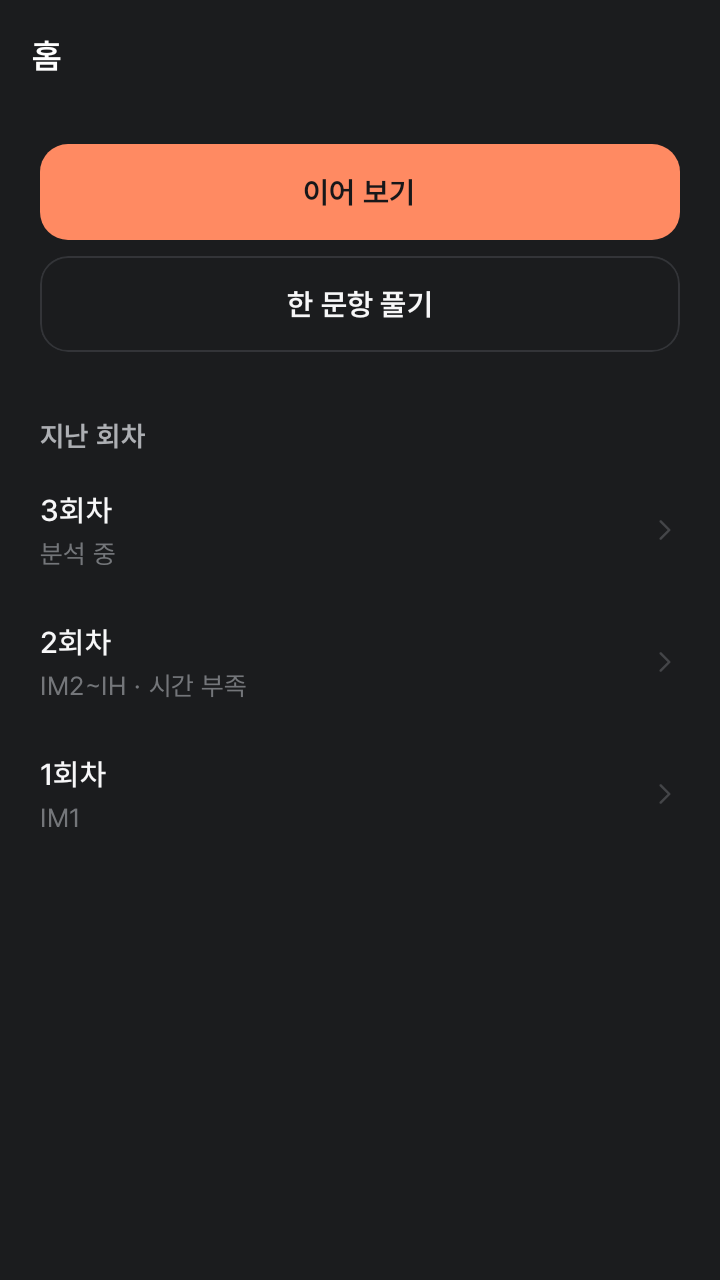
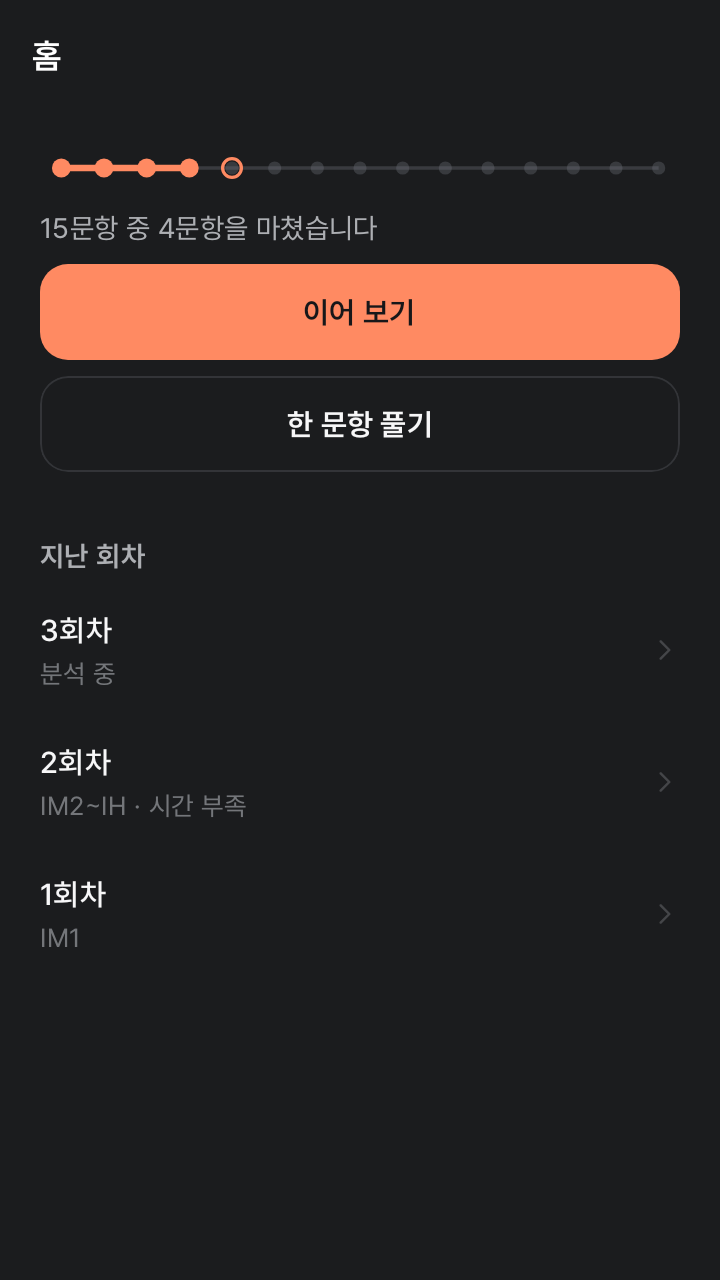
[motion-onb] 홈 이어 보기 위에 마친 문항 진행 점을 보인다 (#158)

diff --git a/ui/feature-home/src/commonTest/kotlin/io/github/nosorae/aiopic/ui/featurehome/HomeViewModelTest.kt b/ui/feature-home/src/commonTest/kotlin/io/github/nosorae/aiopic/ui/featurehome/HomeViewModelTest.kt
@@ -1,7 +1,10 @@
 package io.github.nosorae.aiopic.ui.featurehome
 
+import io.github.nosorae.aiopic.engine.question.model.QuestionType
 import io.github.nosorae.aiopic.engine.session.model.ExamSession
+import io.github.nosorae.aiopic.engine.session.model.ExamSpec
 import io.github.nosorae.aiopic.engine.session.model.ExamStatus
+import io.github.nosorae.aiopic.engine.session.model.ExamStep
 import io.github.nosorae.aiopic.engine.session.model.GradeCheck
 import io.github.nosorae.aiopic.engine.session.model.SessionGrade
 import kotlinx.coroutines.Dispatchers
@@ -19,24 +22,32 @@ import kotlin.test.assertEquals
 import kotlin.test.assertFalse
 import kotlin.test.assertNull
 import kotlin.test.assertTrue
+import kotlin.time.Duration.Companion.minutes
 
 class HomeViewModelTest {
     private val dispatcher = StandardTestDispatcher()
     private val sessions = MutableStateFlow<List<ExamSession>>(emptyList())
+
+    // 수준 1 이면 3문항, 수준 3 이상이면 4문항인 시험.
+    private val spec = ExamSpec(
+        timeLimit = 40.minutes,
+        levelCount = 6,
+        steps = listOf(ExamStep.LevelSelect) + List(3) { ExamStep.Ask(QuestionType("t")) } + ExamStep.Ask(QuestionType("t"), minLevel = 3),
+    )
 
     @BeforeTest fun setUp() = Dispatchers.setMain(dispatcher)
 
     @AfterTest fun tearDown() = Dispatchers.resetMain()
 
     private fun TestScope.loadedViewModel(): HomeViewModel {
-        val viewModel = HomeViewModel(ObserveHomeUseCase { sessions })
+        val viewModel = HomeViewModel(ObserveHomeUseCase({ sessions }, spec))
         advanceUntilIdle()
         return viewModel
     }
 
     @Test
     fun `저장소를 읽기 전에는 지난 회차가 정해지지 않은 로딩 상태다`() {
-        val viewModel = HomeViewModel(ObserveHomeUseCase { sessions })
+        val viewModel = HomeViewModel(ObserveHomeUseCase({ sessions }, spec))
 
         assertNull(viewModel.uiState.value.pastSessions)
     }
@@ -49,6 +60,15 @@ class HomeViewModelTest {
 
         assertEquals("b", viewModel.uiState.value.resumeSessionId)
         assertTrue(viewModel.uiState.value.canResume)
+    }
+
+    @Test
+    fun `F3 이어 볼 회차가 고른 수준의 문항 중 몇 개를 답했는지 보인다`() = runTest(dispatcher) {
+        sessions.value = listOf(ExamSession(id = "b", level = 3, answerIds = listOf("x", "y"), status = ExamStatus.InProgress))
+
+        val viewModel = loadedViewModel()
+
+        assertEquals(2 to 4, viewModel.uiState.value.resumeDone to viewModel.uiState.value.resumeTotal)
     }
 
     @Test

diff --git a/ui/feature-home/src/commonMain/kotlin/io/github/nosorae/aiopic/ui/featurehome/HomeScreen.kt b/ui/feature-home/src/commonMain/kotlin/io/github/nosorae/aiopic/ui/featurehome/HomeScreen.kt
@@ -19,6 +19,7 @@ import io.github.nosorae.aiopic.ui.design.MontageButtonVariant
 import io.github.nosorae.aiopic.ui.design.MontageListCell
 import io.github.nosorae.aiopic.ui.design.MontageScreen
 import io.github.nosorae.aiopic.ui.design.MontageSpacing
+import io.github.nosorae.aiopic.ui.design.MontageStepTrail
 import io.github.nosorae.aiopic.ui.design.MontageTheme
 import io.github.nosorae.aiopic.ui.design.MontageTopBar
 import org.jetbrains.compose.resources.stringResource
@@ -56,6 +57,15 @@ fun HomeScreen(
                     modifier = Modifier.padding(horizontal = gutter, vertical = MontageSpacing.spacing16),
                     verticalArrangement = Arrangement.spacedBy(MontageSpacing.spacing8),
                 ) {
+                    if (state.canResume && state.resumeTotal > 0) {
+                        // 처음 보일 때는 움직이지 않는 그림이다. 몇 문항 남았는지를 글을 읽기 전에 보인다.
+                        MontageStepTrail(total = state.resumeTotal, done = state.resumeDone.coerceAtMost(state.resumeTotal))
+                        Text(
+                            text = stringResource(Res.string.home_resume_progress, state.resumeTotal, state.resumeDone),
+                            style = MontageTheme.typography.label1.regular,
+                            color = MontageTheme.colors.foregroundNeutralSecondary,
+                        )
+                    }
                     MontageButton(
                         text = stringResource(if (state.canResume) Res.string.home_resume_exam else Res.string.home_start_exam),
                         onClick = { onExamClick(state.resumeSessionId) },
@@ -109,6 +119,8 @@ internal object HomeSamples {
     val empty = HomeUiState(pastSessions = emptyList())
     val history = HomeUiState(
         resumeSessionId = "d",
+        resumeDone = 4,
+        resumeTotal = 15,
         pastSessions = listOf(
             PastSession(id = "c", number = 3, gradeRange = null, timeUp = false),
             PastSession(id = "b", number = 2, gradeRange = "IM2~IH", timeUp = true),

diff --git a/ui/feature-home/src/commonMain/kotlin/io/github/nosorae/aiopic/ui/featurehome/ObserveHomeUseCase.kt b/ui/feature-home/src/commonMain/kotlin/io/github/nosorae/aiopic/ui/featurehome/ObserveHomeUseCase.kt
@@ -1,15 +1,21 @@
 package io.github.nosorae.aiopic.ui.featurehome
 
 import dev.zacsweers.metro.Inject
+import io.github.nosorae.aiopic.engine.session.model.ExamSpec
 import io.github.nosorae.aiopic.engine.session.model.ExamStatus
+import io.github.nosorae.aiopic.engine.session.model.ExamStep
 import kotlinx.coroutines.flow.Flow
 import kotlinx.coroutines.flow.map
 
+/** 전체 문항 수는 시험 화면처럼 고른 수준에서 묻는 문항만 센다. 수준을 고르기 전이면 수준 1 의 문항 수다. */
 @Inject
-class ObserveHomeUseCase(private val examSessionSource: ExamSessionSource) {
+class ObserveHomeUseCase(private val examSessionSource: ExamSessionSource, private val spec: ExamSpec) {
     operator fun invoke(): Flow<HomeUiState> = examSessionSource.sessions().map { sessions ->
+        val resume = sessions.lastOrNull { it.status == ExamStatus.InProgress }
         HomeUiState(
-            resumeSessionId = sessions.lastOrNull { it.status == ExamStatus.InProgress }?.id,
+            resumeSessionId = resume?.id,
+            resumeDone = resume?.answerIds?.size ?: 0,
+            resumeTotal = resume?.let { session -> spec.steps.count { it is ExamStep.Ask && it.minLevel <= (session.level ?: 1) } } ?: 0,
             pastSessions = sessions
                 .mapIndexed { index, session ->
                     PastSession(

diff --git a/ui/feature-home/src/commonMain/kotlin/io/github/nosorae/aiopic/ui/featurehome/HomeUiState.kt b/ui/feature-home/src/commonMain/kotlin/io/github/nosorae/aiopic/ui/featurehome/HomeUiState.kt
@@ -4,6 +4,9 @@ package io.github.nosorae.aiopic.ui.featurehome
 data class HomeUiState(
     /** 진행 중인 회차 id. 있으면 시작 버튼이 그 회차의 이어 보기가 된다(F3). */
     val resumeSessionId: String? = null,
+    /** 이어 볼 회차에서 답한 문항 수와 고른 수준의 전체 문항 수. 이어 보기 버튼 위 진행 점에 쓴다. */
+    val resumeDone: Int = 0,
+    val resumeTotal: Int = 0,
     /** 최근 것부터. 저장소를 읽기 전에는 null 이다. */
     val pastSessions: List<PastSession>? = null,
 ) {

diff --git a/ui/feature-home/src/commonMain/kotlin/io/github/nosorae/aiopic/ui/featurehome/HomeViewModel.kt b/ui/feature-home/src/commonMain/kotlin/io/github/nosorae/aiopic/ui/featurehome/HomeViewModel.kt
@@ -18,7 +18,7 @@ class HomeViewModel(observeHomeUseCase: ObserveHomeUseCase) : ViewModel() {
     init {
         viewModelScope.launch {
             observeHomeUseCase().collect { home ->
-                _uiState.update { it.copy(resumeSessionId = home.resumeSessionId, pastSessions = home.pastSessions) }
+                _uiState.update { home }
             }
         }
     }

diff --git a/ui/feature-home/src/androidHostTest/kotlin/io/github/nosorae/aiopic/ui/featurehome/HomeScreenTest.kt b/ui/feature-home/src/androidHostTest/kotlin/io/github/nosorae/aiopic/ui/featurehome/HomeScreenTest.kt
@@ -50,4 +50,11 @@ class HomeScreenTest {
 
         assertEquals(listOf<String?>(null), opened)
     }
+
+    @Test
+    fun `F3 이어 볼 회차가 있으면 몇 문항을 마쳤는지 보인다`() {
+        show(HomeSamples.history)
+
+        rule.onNodeWithText("15문항 중 4문항을 마쳤습니다").assertExists()
+    }
 }
